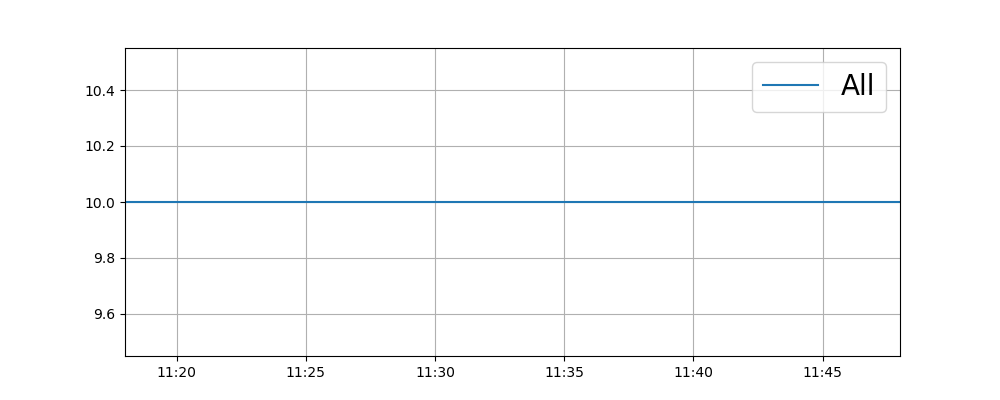
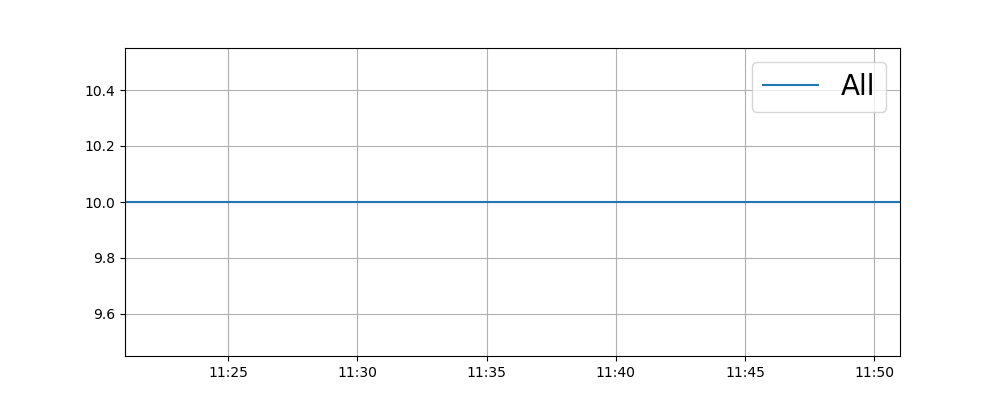
testv

diff --git a/README.md b/README.md
@@ -1,8 +1,12 @@
-## CSVファイル
+## 過去ログ・グラフ
 
 期間|CSVファイルのリンク
 --|--
 2022年2月|[件数集計](https://raw.githubusercontent.com/tanaka0079/stats/main/2022_2_num.csv), [件数内訳](https://raw.githubusercontent.com/tanaka0079/stats/main/2022_2_detail.csv)
+
+【全体(過去1時間)】
+![全体(過去1時間)](https://raw.githubusercontent.com/tanaka0079/stats/main/graph/all_latest_1h.png)
+
 
 ## ネット情報
 
